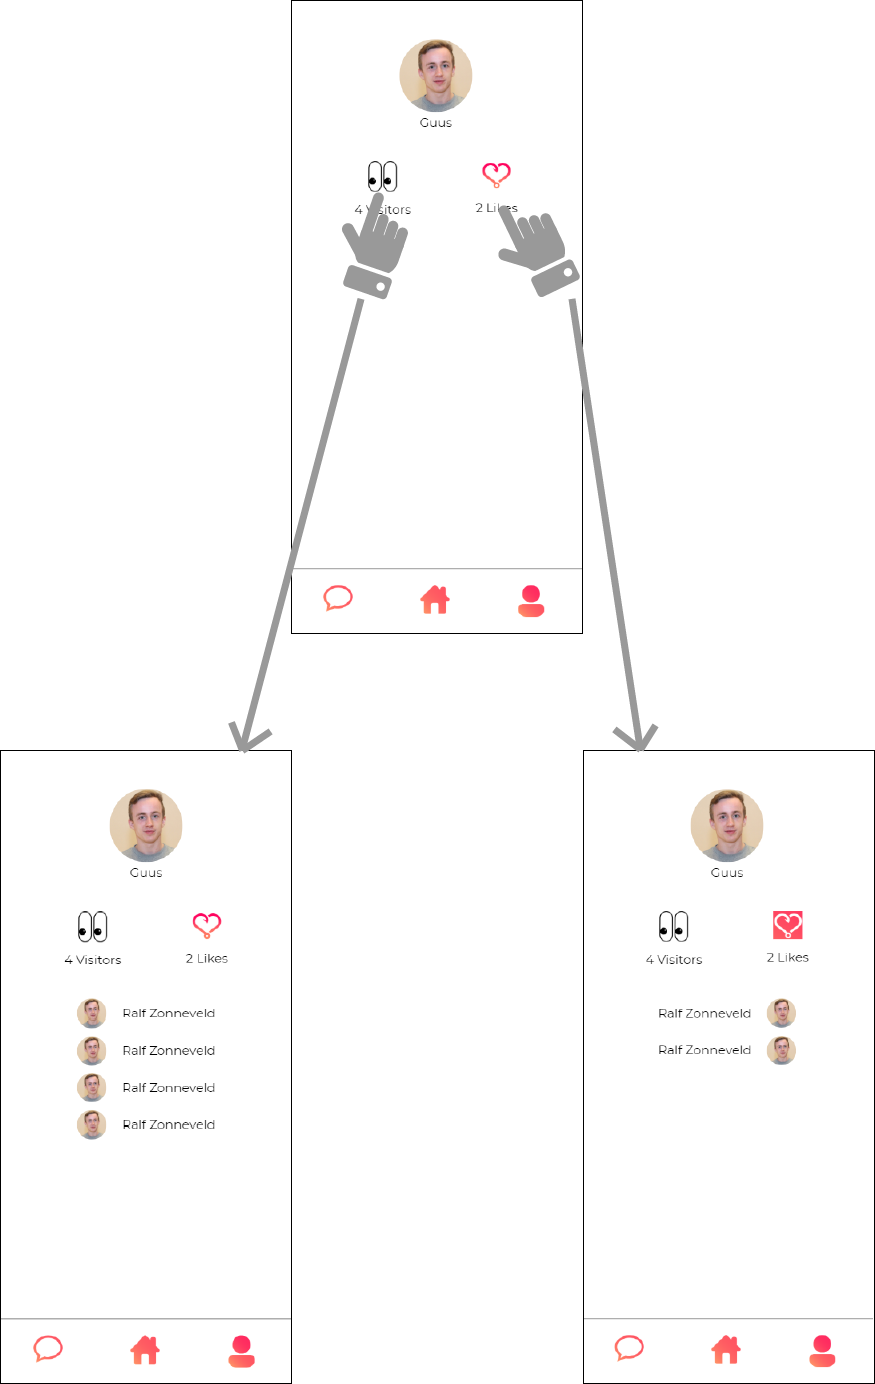
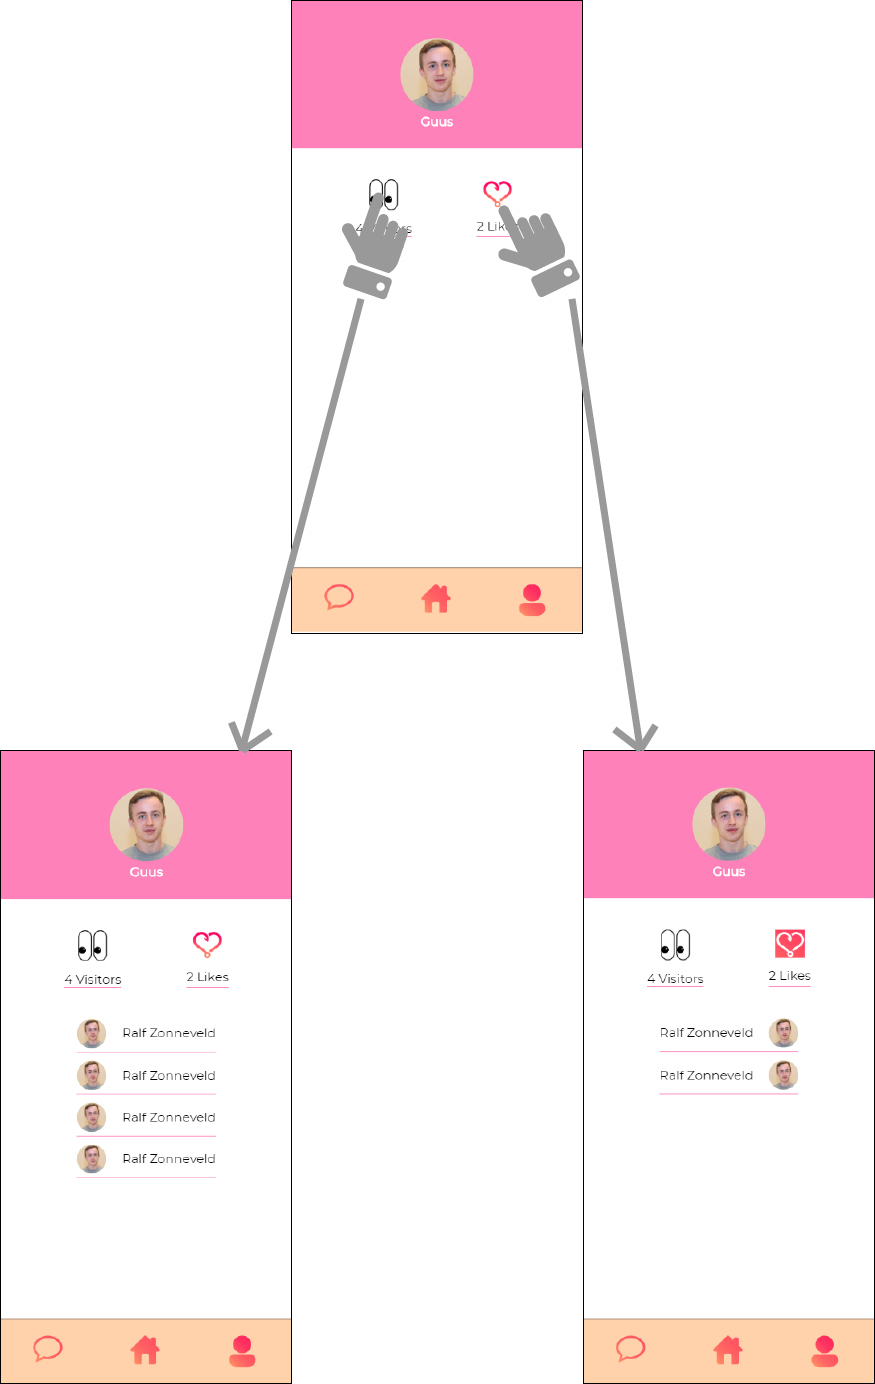
updated wireflow and styles

diff --git a/static/styles/style.css b/static/styles/style.css
@@ -22,11 +22,17 @@ header figure img {
     border-radius: 50%;
 }
 
+header figure figcaption {
+    color: white;
+    font-weight: bold;
+}
+
 header {
     display: flex;
     justify-content: center;
     text-align: center;
-    margin-top: 50px;
+    padding: 50px 0 25px 0;
+    background-color: rgba(255, 97, 167, 0.8);
 }
 
 main > ul li figure img{
@@ -39,6 +45,10 @@ main > ul li figure figcaption {
 
 main > ul li figure {
     text-align: center;
+}
+
+main > ul li {
+    border-bottom: 1px solid #ff61a7;
 }
 
 main > ul {
@@ -62,6 +72,8 @@ main > div ul li {
     display: flex;
     margin-top: 10px;
     align-items: center;
+    border-bottom: 1px solid #ff61a7;
+    padding-bottom: 5px;
 }
 
 /* margins for profile pictures on likes and visitors page */
@@ -80,6 +92,7 @@ footer {
     bottom: 0;
     width: 100vw;
     border-top: 1px solid rgba(0, 0, 0, .5);
+    background-color: #ffd2ac;
 }
 
 nav ul {
